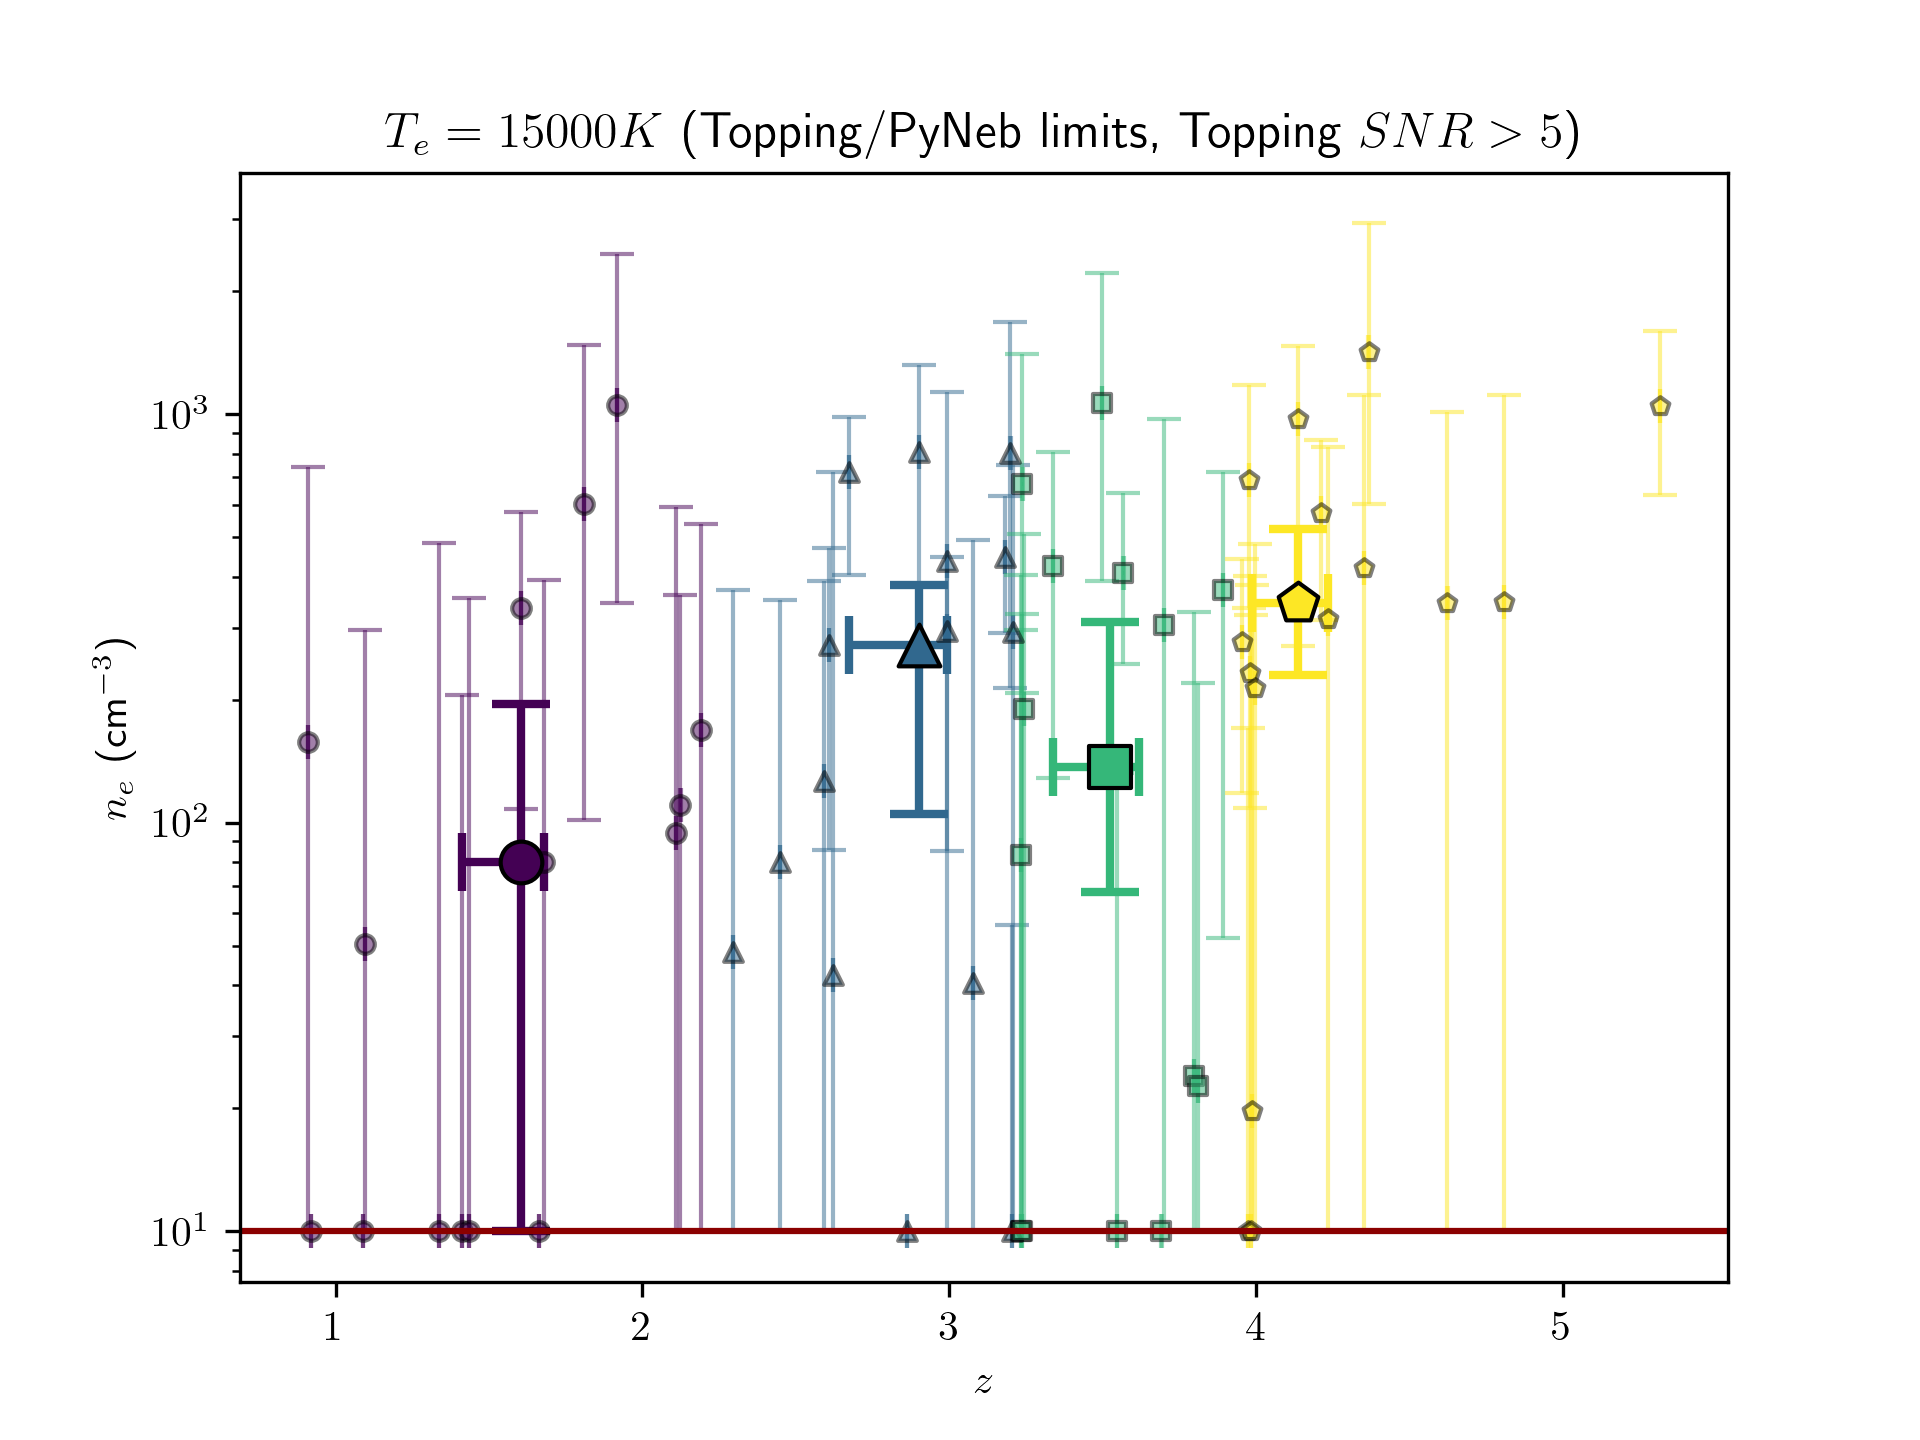
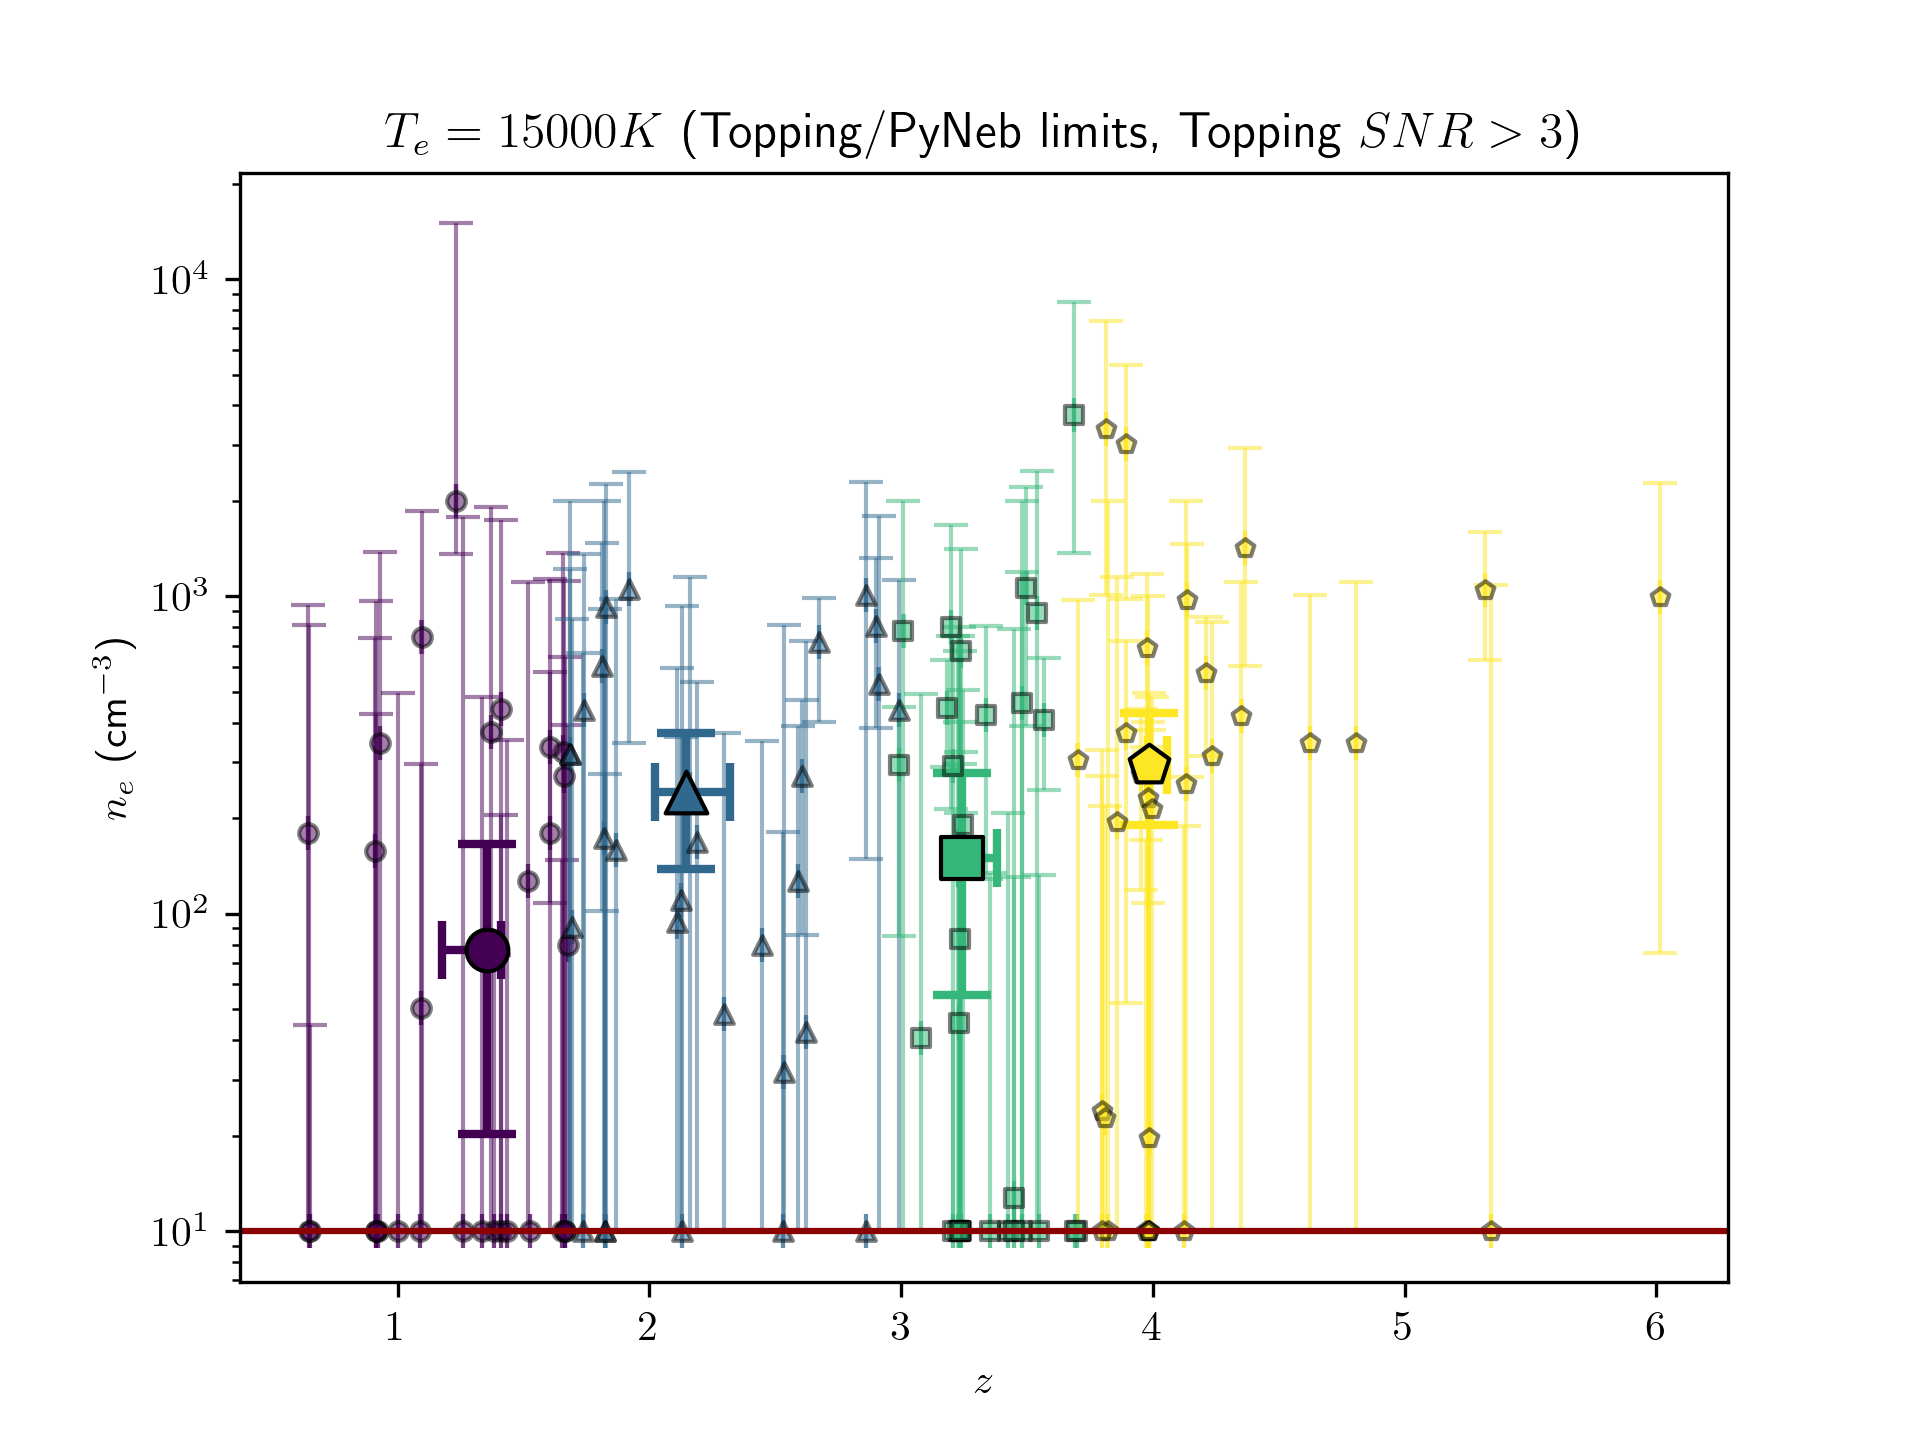
Reduce minimum SNR to 3

diff --git a/SII_Fitting_and_Densities/databinning.py b/SII_Fitting_and_Densities/databinning.py
@@ -34,7 +34,7 @@ def bootstrap_median(group, column, n_boot=10_000):
 
     boot_medians = np.median(perturbed, axis=1)
     low, high = np.percentile(boot_medians, [16, 84])
-    return np.median(values), low, high
+    return np.median(boot_medians), low, high
 
 results = []
 
@@ -91,7 +91,7 @@ plt.xlabel(r"$z$")
 plt.ylabel(r"$n_e$ (cm$^{-3}$)")
 plt.yscale("log")
 plt.axhline(10, color = "darkred", label = "")
-plt.title(r"$T_e = 15000 K$ (Topping/PyNeb limits, Topping $SNR>5$)")
+plt.title(r"$T_e = 15000 K$ (Topping/PyNeb limits, Topping $SNR>3$)")
 plt.savefig(dir / "n_e_vs_z_Te_15000_binned.png", dpi=300)
 plt.show()
 
